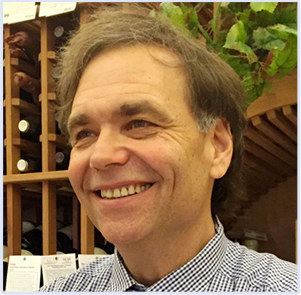
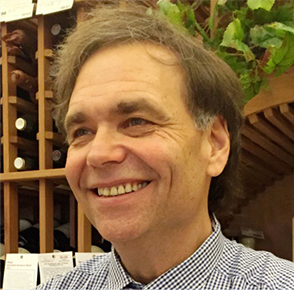
cropped bio images

diff --git a/speaker.html b/speaker.html
@@ -9,7 +9,7 @@
     <meta property="og:title" content="Impact Seminar 2019">
     <meta property="og:url" content="http://www.impactseminar.com/" />
     <meta property="og:description" content="A one-day seminar for executives in the beverage alcohol industry with presentations by CEOs/presidents of major companies focusing on issues vital to our industry today and its future growth.">
-    <link href="images/IMP_16x16_B.jpg" rel="icon" type="image/jpg"/>
+    <link href="images/2019/IMP_16x16_B.jpg" rel="icon" type="image/jpg"/>
     <title>Impact Seminar 2019 Speakers</title>
 
     <!-- Bootstrap -->
@@ -89,19 +89,19 @@
     <div class="row">
       <div class="col-lg-12 col-xs-12">
         <div class="col-lg-4 col-md-4 col-lg-12">
-          <img src="images/JavierFerran.jpg" alt="" style="" class="img-responsive bios_image bioimg ipad_bios">
+          <img src="images/2019/IMPSeminar18_Speakers_Joseph Gallo.jpg" alt="" style="" class="img-responsive bios_image bioimg ipad_bios">
           <p class="name">Joseph Gallo</p>
           <p class="title">CEO<br/> E. &amp; J. Gallo Winery<br/> Modesto, California</p>
           <p class="quote">“How E. &amp; J. Gallo Winery Transformed Leadership from Its Two Legendary Founders to a New Generation of Management”</p>
         </div><!-- col-lg-4 col-lg-12 -->
         <div class="col-lg-4 col-md-4 col-lg-12">
-          <img src="images/PeteCarr.jpg" alt="" style="" class="img-responsive bios_image bioimg ipad_bios">
+          <img src="images/2019/IMPSeminar18_Speakers_Alexandre Ricard.jpg" alt="" style="" class="img-responsive bios_image bioimg ipad_bios">
           <p class="name">Alexandre Ricard</p>
           <p class="title">CEO<br/>Pernod Ricard<br/>Paris</p>
           <p class="quote">“The Longevity of Luxury”</p>
         </div><!-- col-lg-4 col-lg-12 -->
         <div class="col-lg-4 col-md-4 col-lg-12">
-          <img src="images/TedBaseler.jpg" alt="" style="" class="img-responsive bios_image bioimg ipad_bios">
+          <img src="images/2019/IMPSeminar18_Speakers_Bill Newlands.jpg" alt="" style="" class="img-responsive bios_image bioimg ipad_bios">
           <p class="name">Bill Newlands</p>
           <p class="title">President &amp; COO<br/>Constellation Brands<br/>Victor, New York</p>
           <p class="quote">“Facing the Challenges of a Changing Consumer Marketplace”</p>
@@ -113,19 +113,19 @@
       <hr style="background-color: #1c3b6e; height:20px; margin-top: 25px; margin-bottom:35px;" id="like_design">
       <div class="col-lg-12 col-xs-12">
         <div class="col-lg-4 col-md-4 col-lg-12">
-          <img src="images/DavidTrone.jpg" alt="" style="" class="img-responsive bios_image bioimg ipad_bios">
+          <img src="images/2019/IMPSeminar18_Speakers_Michael Binstein.jpg" alt="" style="" class="img-responsive bios_image bioimg ipad_bios">
           <p class="name">Michael Binstein</p>
           <p class="title">Owner<br/>Binny’s Beverage Depot<br/>Chicago</p>
           <p class="quote">“Trends in Beverage Alcohol Retailing in America”</p>
         </div><!-- col-lg-4 col-lg-12 -->
         <div class="col-lg-4 col-md-4 col-lg-12">
-          <img src="images/TomCole.jpg" alt="" style="" class="img-responsive bios_image bioimg ipad_bios">
+          <img src="images/2019/IMPSeminar18_Speakers_Ted Schlein.jpg" alt="" style="" class="img-responsive bios_image bioimg ipad_bios">
           <p class="name">Ted Schlein</p>
           <p class="title">Managing Partner<br/>Kleiner Perkins Caufield &amp; Byers<br/>Menlo Park, California</p>
           <p class="quote">“The Growing Importance of Cyber Security”</p>
         </div><!-- col-lg-4 col-lg-12 -->
         <div class="col-lg-4 col-md-4 col-lg-12">
-          <img src="images/KateLatts.jpg" alt="" style="" class="img-responsive bios_image bioimg ipad_bios">
+          <img src="images/2019/IMPSeminar18_Speakers_Bruce Linton.jpg" alt="" style="" class="img-responsive bios_image bioimg ipad_bios">
           <p class="name">Bruce Linton</p>
           <p class="title">CEO<br/>Canopy Growth Corporation</br>Smiths Falls, Ontario</p>
           <p class="quote">“The Future of Cannabis”</p>
@@ -137,19 +137,19 @@
       <hr style="background-color: #1c3b6e; height:20px; margin-top: 25px; margin-bottom:35px;" id="like_design">
       <div class="col-lg-12 col-xs-12">
         <div class="col-lg-4 col-md-4 col-lg-12">
-          <img src="images/DavidTrone.jpg" alt="" style="" class="img-responsive bios_image bioimg ipad_bios">
+          <img src="images/2019/IMPSeminar18_Speakers_Tom Bulleit.jpg" alt="" style="" class="img-responsive bios_image bioimg ipad_bios">
           <p class="name">Tom Bulleit</p>
           <p class="title">Founder<br/>Bulleit Bourbon<br/>Lawrenceburg, Kentucky</p>
           <p class="quote">“The Trials, Tribulations<br/> and Joys of Re-Creating<br/> Bulleit”</p>
         </div><!-- col-lg-4 col-lg-12 -->
         <div class="col-lg-4 col-md-4 col-lg-12">
-         <!--  <img src="images/TomCole.jpg" alt="" style="" class="img-responsive bios_image bioimg ipad_bios">
+         <!--  <img src="images/2019/TomCole.jpg" alt="" style="" class="img-responsive bios_image bioimg ipad_bios">
           <p class="name">Ted Schlein</p>
           <p class="title">Managing Partner<br/>Kleiner Perkins Caufield &amp; Byers<br/>Menlo Park, California</p>
           <p class="quote">“The Growing Importance of Cyber Security”</p> -->
         </div><!-- col-lg-4 col-lg-12 -->
         <div class="col-lg-4 col-md-4 col-lg-12">
-          <!-- <img src="images/KateLatts.jpg" alt="" style="" class="img-responsive bios_image bioimg ipad_bios">
+          <!-- <img src="images/2019/KateLatts.jpg" alt="" style="" class="img-responsive bios_image bioimg ipad_bios">
           <p class="name">Bruce Linton</p>
           <p class="title">CEO<br/>Canopy Growth Corporation</p>Smiths Falls, Ontario</p>
           <p class="quote">“The Future of Cannabis”</p> -->
